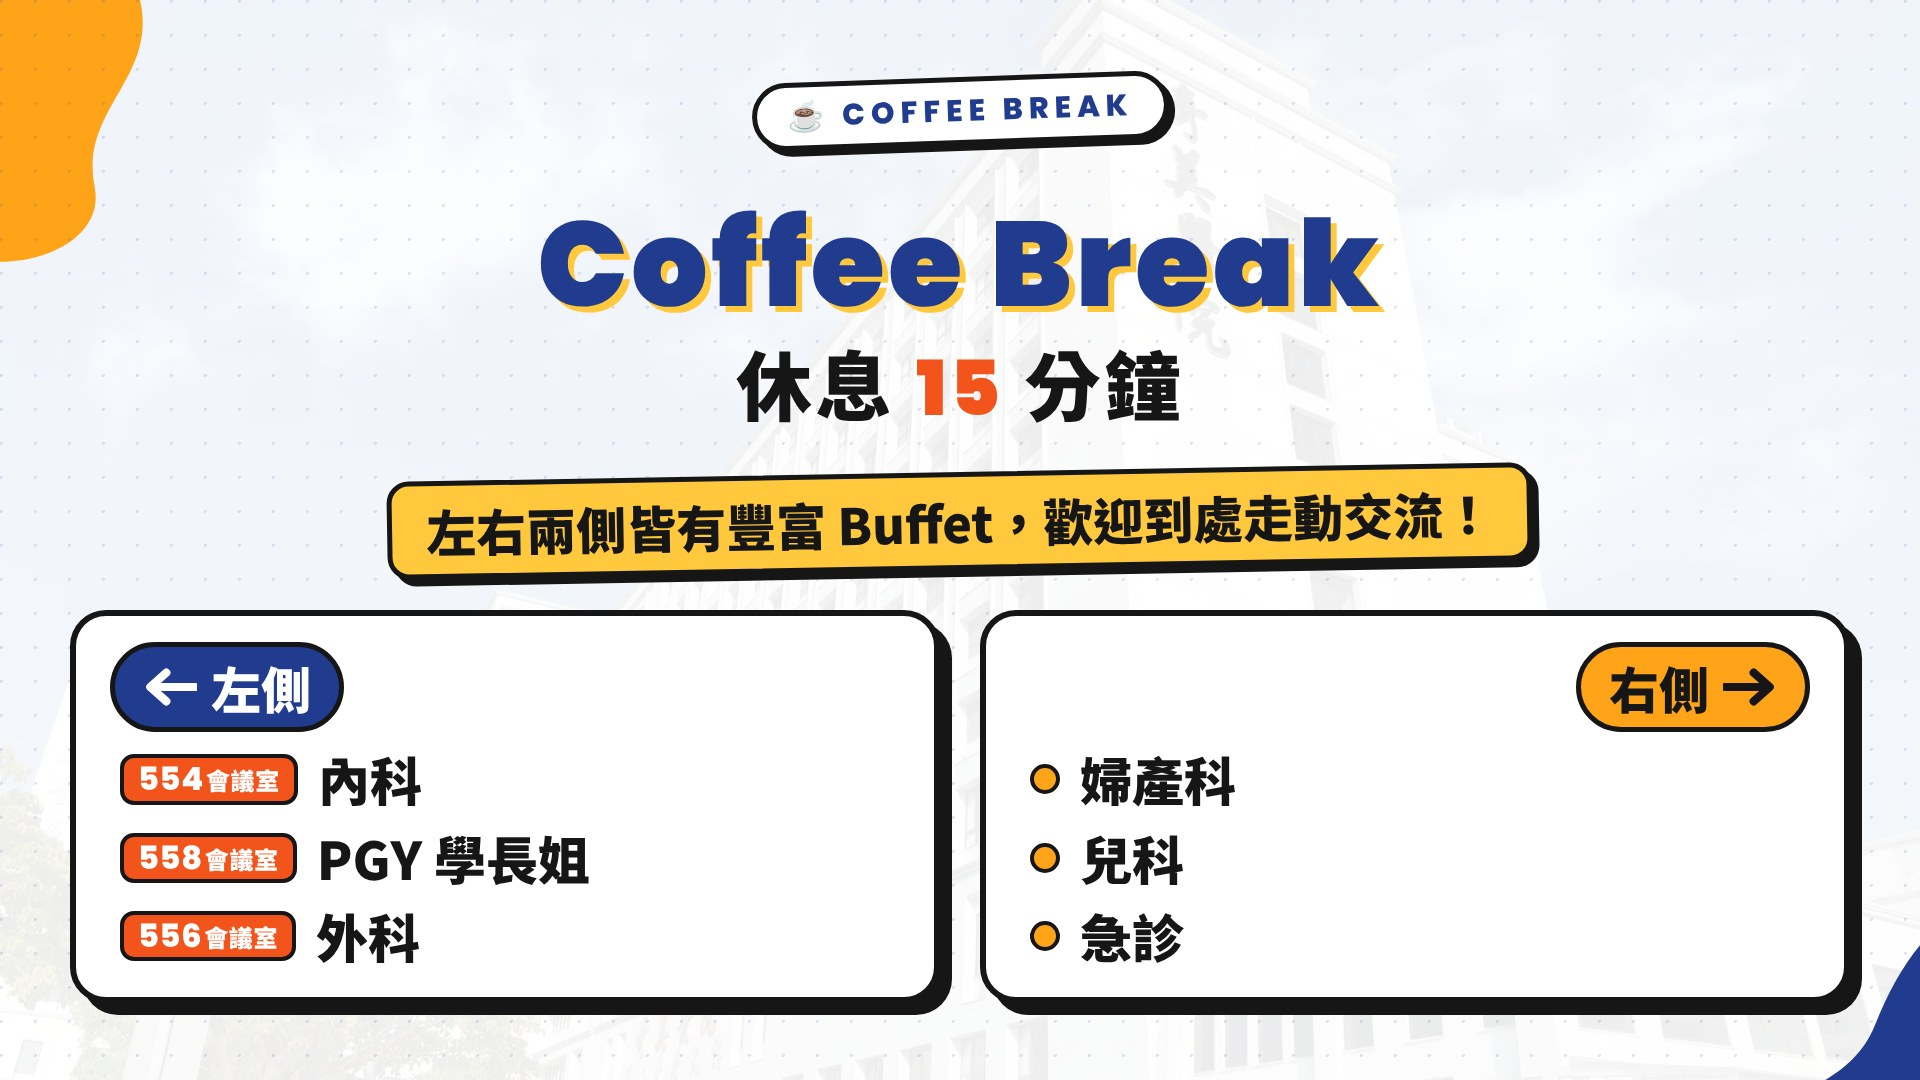
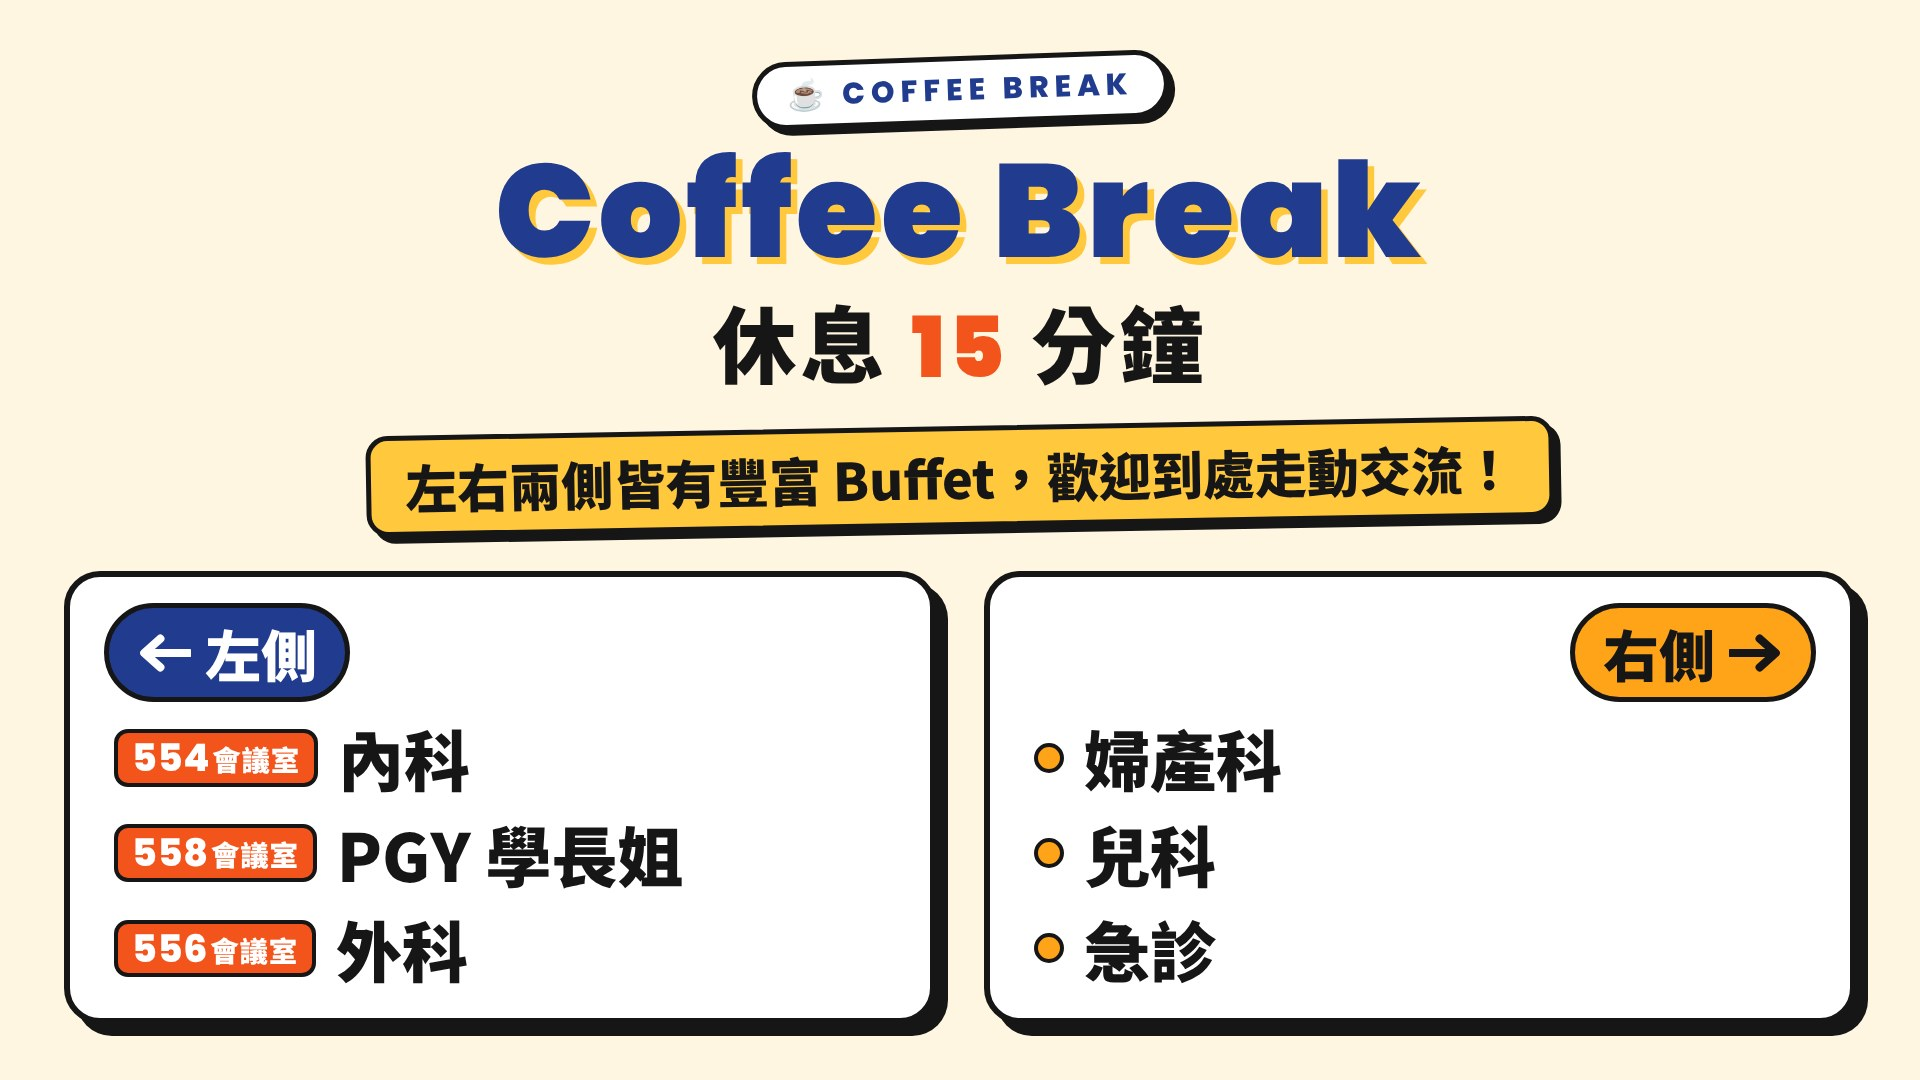
歌詞頁三張圖：移除自帶背景與色塊，改米色底並放大內容撐滿照片框
Claude-Session: https://claude.ai/code/session_01HH3Uic7B7GKvdUspcu4Pwt

diff --git a/cmh_musiccc/photos/slides.html b/cmh_musiccc/photos/slides.html
@@ -84,6 +84,42 @@ h1 b{font-family:Poppins;font-weight:900}
 .steps li{display:flex;align-items:center;gap:12px;font-size:28px;font-weight:700;line-height:1.3;white-space:nowrap}
 .steps li i{flex:none;width:38px;height:38px;border-radius:50%;background:var(--yellow);color:var(--ink);border:3px solid var(--ink);display:grid;place-items:center;font-style:normal;font-family:Poppins;font-weight:900;font-size:22px}
 .steps li b{color:var(--yellow)}
+
+/* ===== 放進歌詞頁照片框用：拿掉自帶背景與色塊，內容撐滿畫面 ===== */
+.slide{background:var(--band);padding:56px 64px 60px;justify-content:space-between}
+.slide::before,.slide::after,.blob{display:none}
+.s1,.s2,.s3{gap:0;padding-top:56px}
+.s1-row,.s3 .sides,.s2 .sides{flex:1;padding:0;margin-top:44px}
+.s1-row{gap:48px}
+.s1-head{gap:56px}
+.s1 h1{font-size:120px}
+.s1 .pill{font-size:60px}
+.snack h3{font-size:50px}
+.snack-ill{transform:scale(1.25);margin:30px 0 40px}
+.snack-t{font-size:92px}
+.snack-s{font-size:40px}
+.checkin h2{font-size:58px}
+.checkin h2 small{font-size:26px}
+.s1 .checkin .qrbox{width:300px}
+.s1 .checkin .steps li{font-size:38px}
+.s1 .checkin .steps li i{width:46px;height:46px;font-size:26px}
+.checkin .help{font-size:28px}
+.s2 h1{font-size:132px}
+.s2 h1 .sub{font-size:84px}
+.s2 .note,.s3 .note{margin-top:30px;font-size:52px}
+.s2 .sides{gap:48px}
+.s2 .side h3,.s3 .side h3{font-size:56px}
+.s2 .room{font-size:66px}
+.s2 .room .no{font-size:38px}
+.s3 h1{font-size:96px}
+.s3 .sides{gap:32px}
+.s3 .room{font-size:50px;white-space:nowrap}
+.s3 .room .no{font-size:32px}
+.s3 .checkout{width:560px;justify-content:space-evenly}
+.s3 .checkout h2{font-size:54px}
+.s3 .qrbox{width:270px}
+.s3 .steps li{font-size:32px}
+.s3 .steps li i{width:42px;height:42px;font-size:24px}
 </style>
 </head>
 <body>
